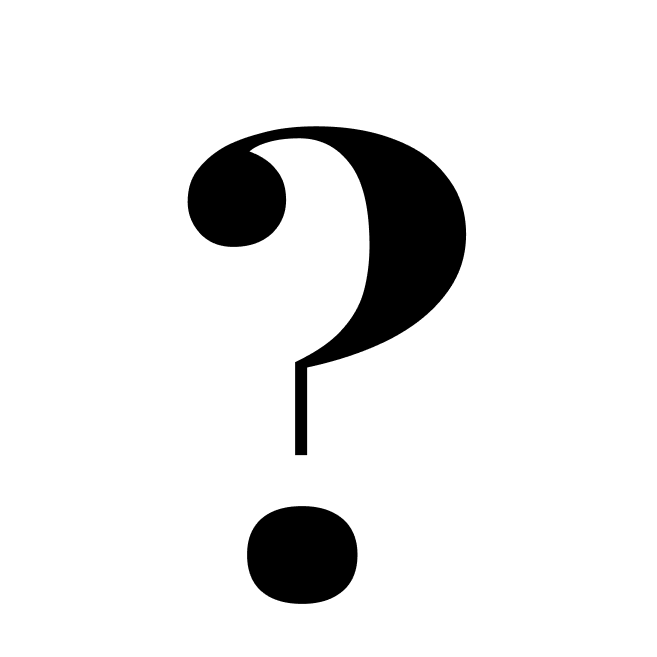
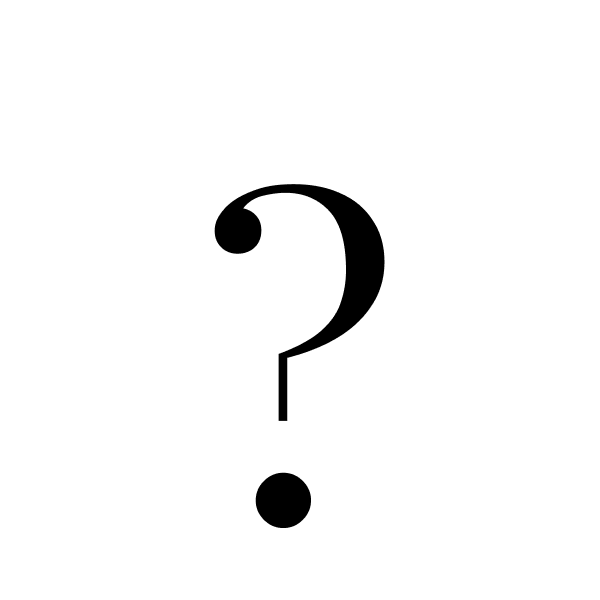
Updates in random generator

Changed region(s): [[0.27, 0.18, 0.72, 0.72], [0.36, 0.75, 0.57, 0.93]]

diff --git a/index.html b/index.html
@@ -93,7 +93,7 @@
   </div>
 </div>
 <!-- "Why Vibsas section" -->
-    <section id="why-vibsas-section">
+    <!-- <section id="why-vibsas-section">
         <header class="why-vibsas-header">
             <h3 id=why-vibsas class="why-vibsas-small-heading">What makes us different</h3>
             <h2 class="why-vibsas-big-heading">Why Vibsas?</h2>
@@ -140,7 +140,7 @@
         </div>
     </section>
 
-<!-- Travel Styles section/packages-->
+ Travel Styles section/packages-->
   <section class="section3">
       <div class="heading">
       <span>Bestsellers of the Season</span>
@@ -216,15 +216,16 @@
   <section id="random-generator">
   <h1 class="rand-gen-big-heading"> Couldn't decide where to go?</h1>
   <h4 class="rand-gen-small-heading">Let the random generator help you</h4>
+  <button class="btn btn-lg btn-dark rand-btn">Show Me</button>
   <div class="rand-content">
       <div>
           <img src="images/question-mark.png" class="rand-img">
-          <p class="cityname"></p>
+          <h6 class="city-heading"></h6>
       </div>
   </div>
-  <button class="btn btn-lg rand-btn">Generate</button>
+  
   <script src="app.js"></script>
-</section>
+</section> -->
 <!-- Partners with Section-->
 
 <!-- Testimonials -->

diff --git a/css/main.css b/css/main.css
@@ -382,10 +382,41 @@ p.top-para{
 /* Random City Generator section */
 #random-generator {
     text-align: center;
+    min-height: 100vh;
+}
+.rand-gen-big-heading {
+    font-size: 4rem;
+    margin: 0 0 2rem 0;
+    font-weight: 400;
+}
+.rand-gen-small-heading {
+    font-size: 1.5rem;
+    padding: 1rem 0;
+    font-family: 'Crimson Pro', serif;
+    font-weight: 100;
 }
 .rand-img {
-    max-width: 400px;
+    max-width: 600px;
     height: auto;
+}
+.rand-btn {
+    border-radius: 60px;
+    padding: 0.25rem 1.5rem;
+
+}
+.rand-content {
+   
+    max-width: 600px;
+    margin: 2rem auto 0;
+    position: relative;
+}
+.city-heading {
+    font-size: 2rem;
+    font-weight: 600;
+    position:absolute;
+    left: 40%;
+    top: 40%;
+    color: white;
 }
 /*--------------------------------------------------------------------------- */
 /* Blogs */

diff --git a/app.js b/app.js
@@ -1,7 +1,7 @@
 const randBtn = document.querySelector(".rand-btn");
-const cityName = document.querySelector(".cityname");
+const cityHead = document.querySelector(".city-heading");
 const image = document.querySelector(".rand-img");
-
+const cityPara = document.querySelector(".city-para");
 randBtn.addEventListener("click", ()=>{
     var n = Math.floor(Math.random()*10+1);
     switch(n) {
@@ -43,5 +43,5 @@ randBtn.addEventListener("click", ()=>{
 function showCity (n) {
     randomImageSource = "images/random-" + n +".jpg";
     image.setAttribute("src", randomImageSource);
-    cityName.innerHTML = "This is " + n;
+    cityHead.innerHTML = n;
 }
